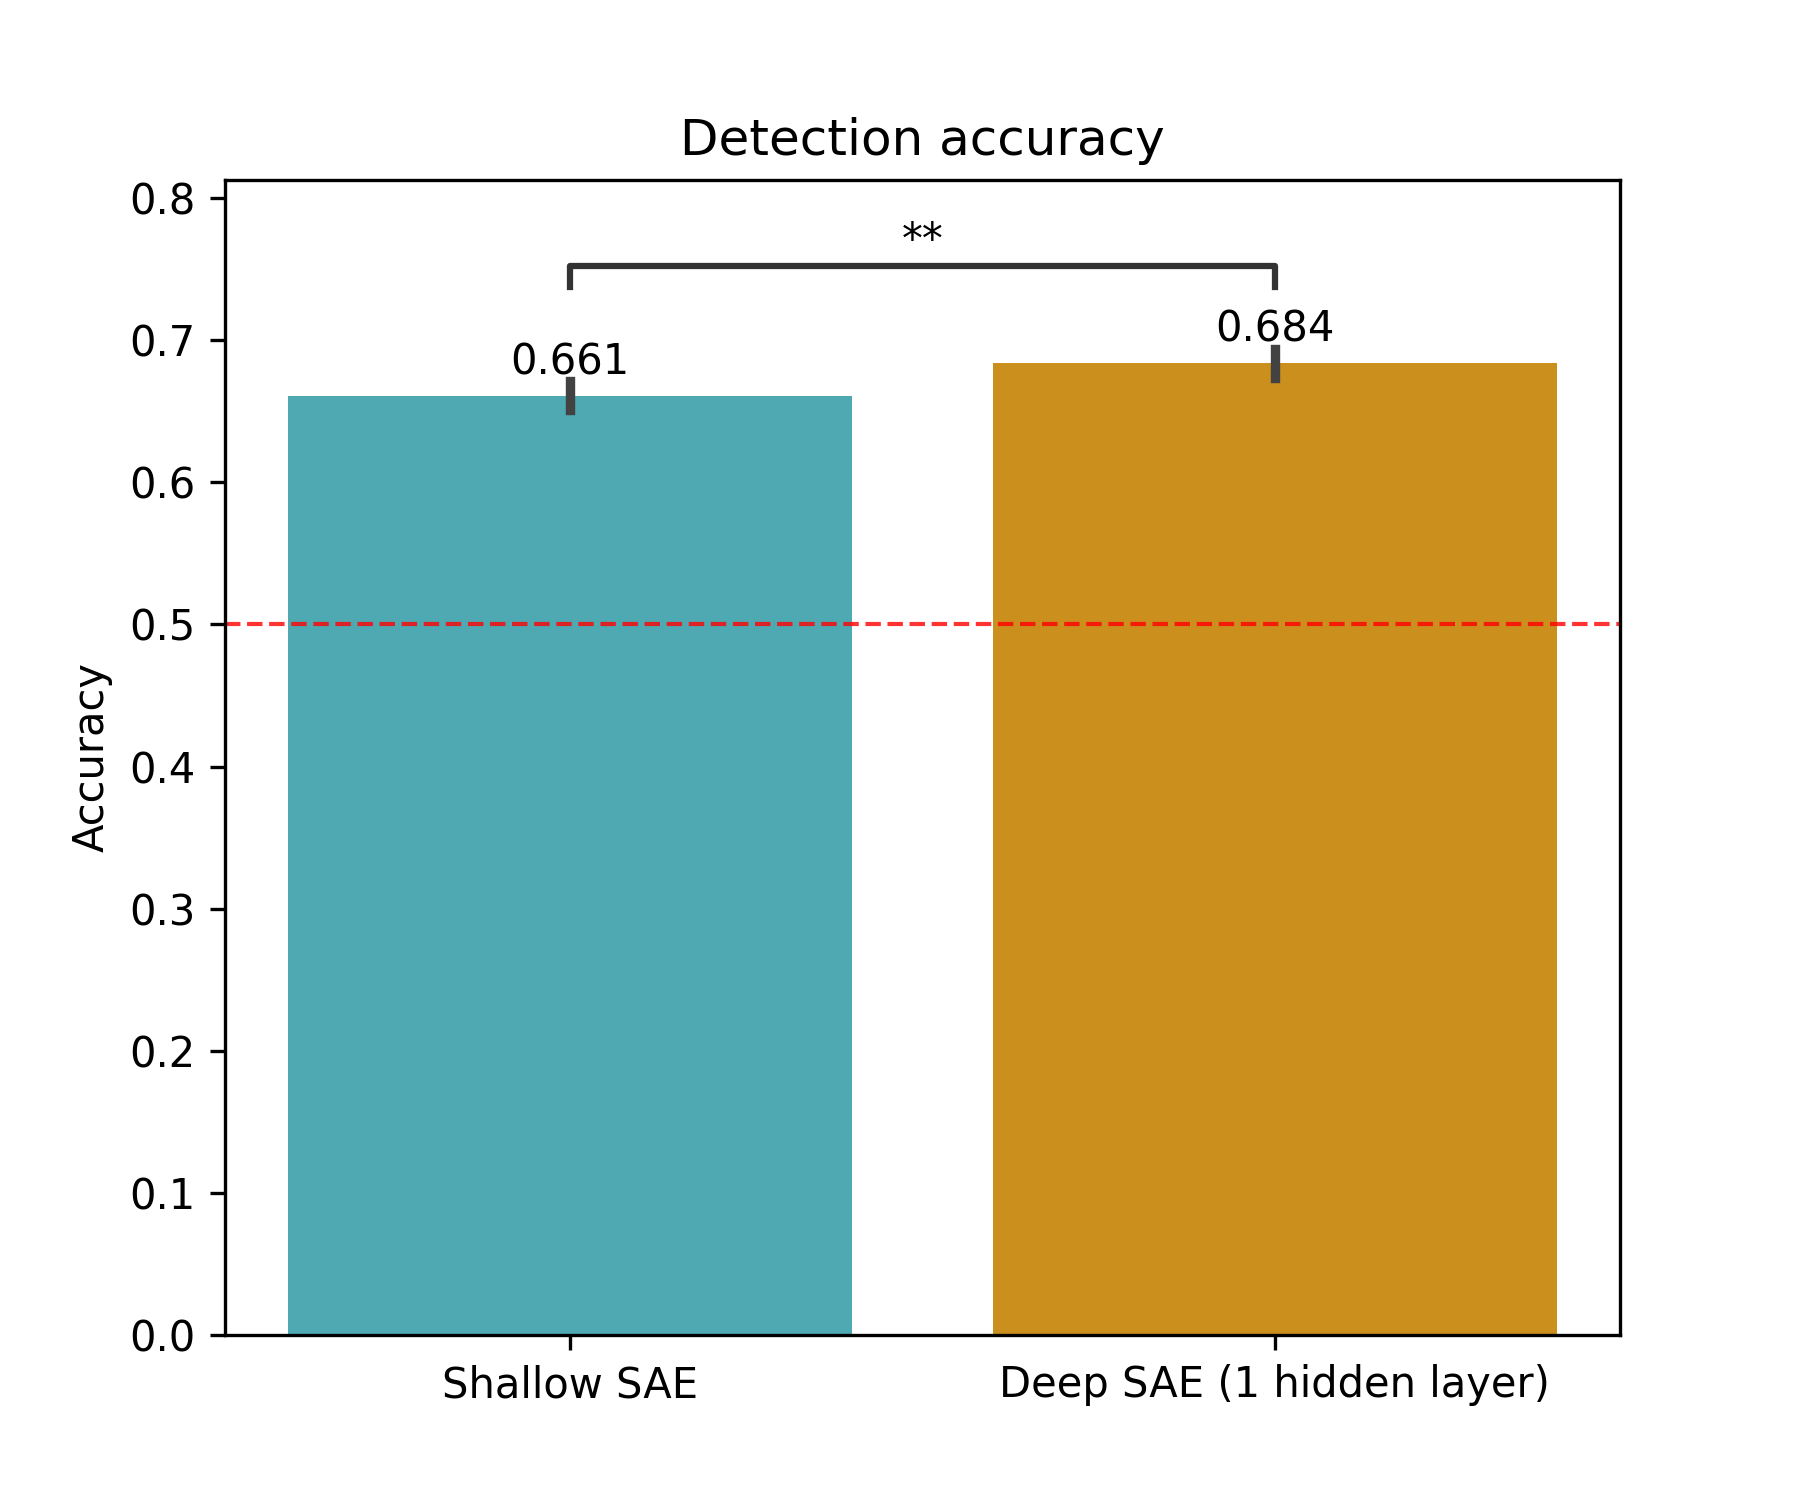
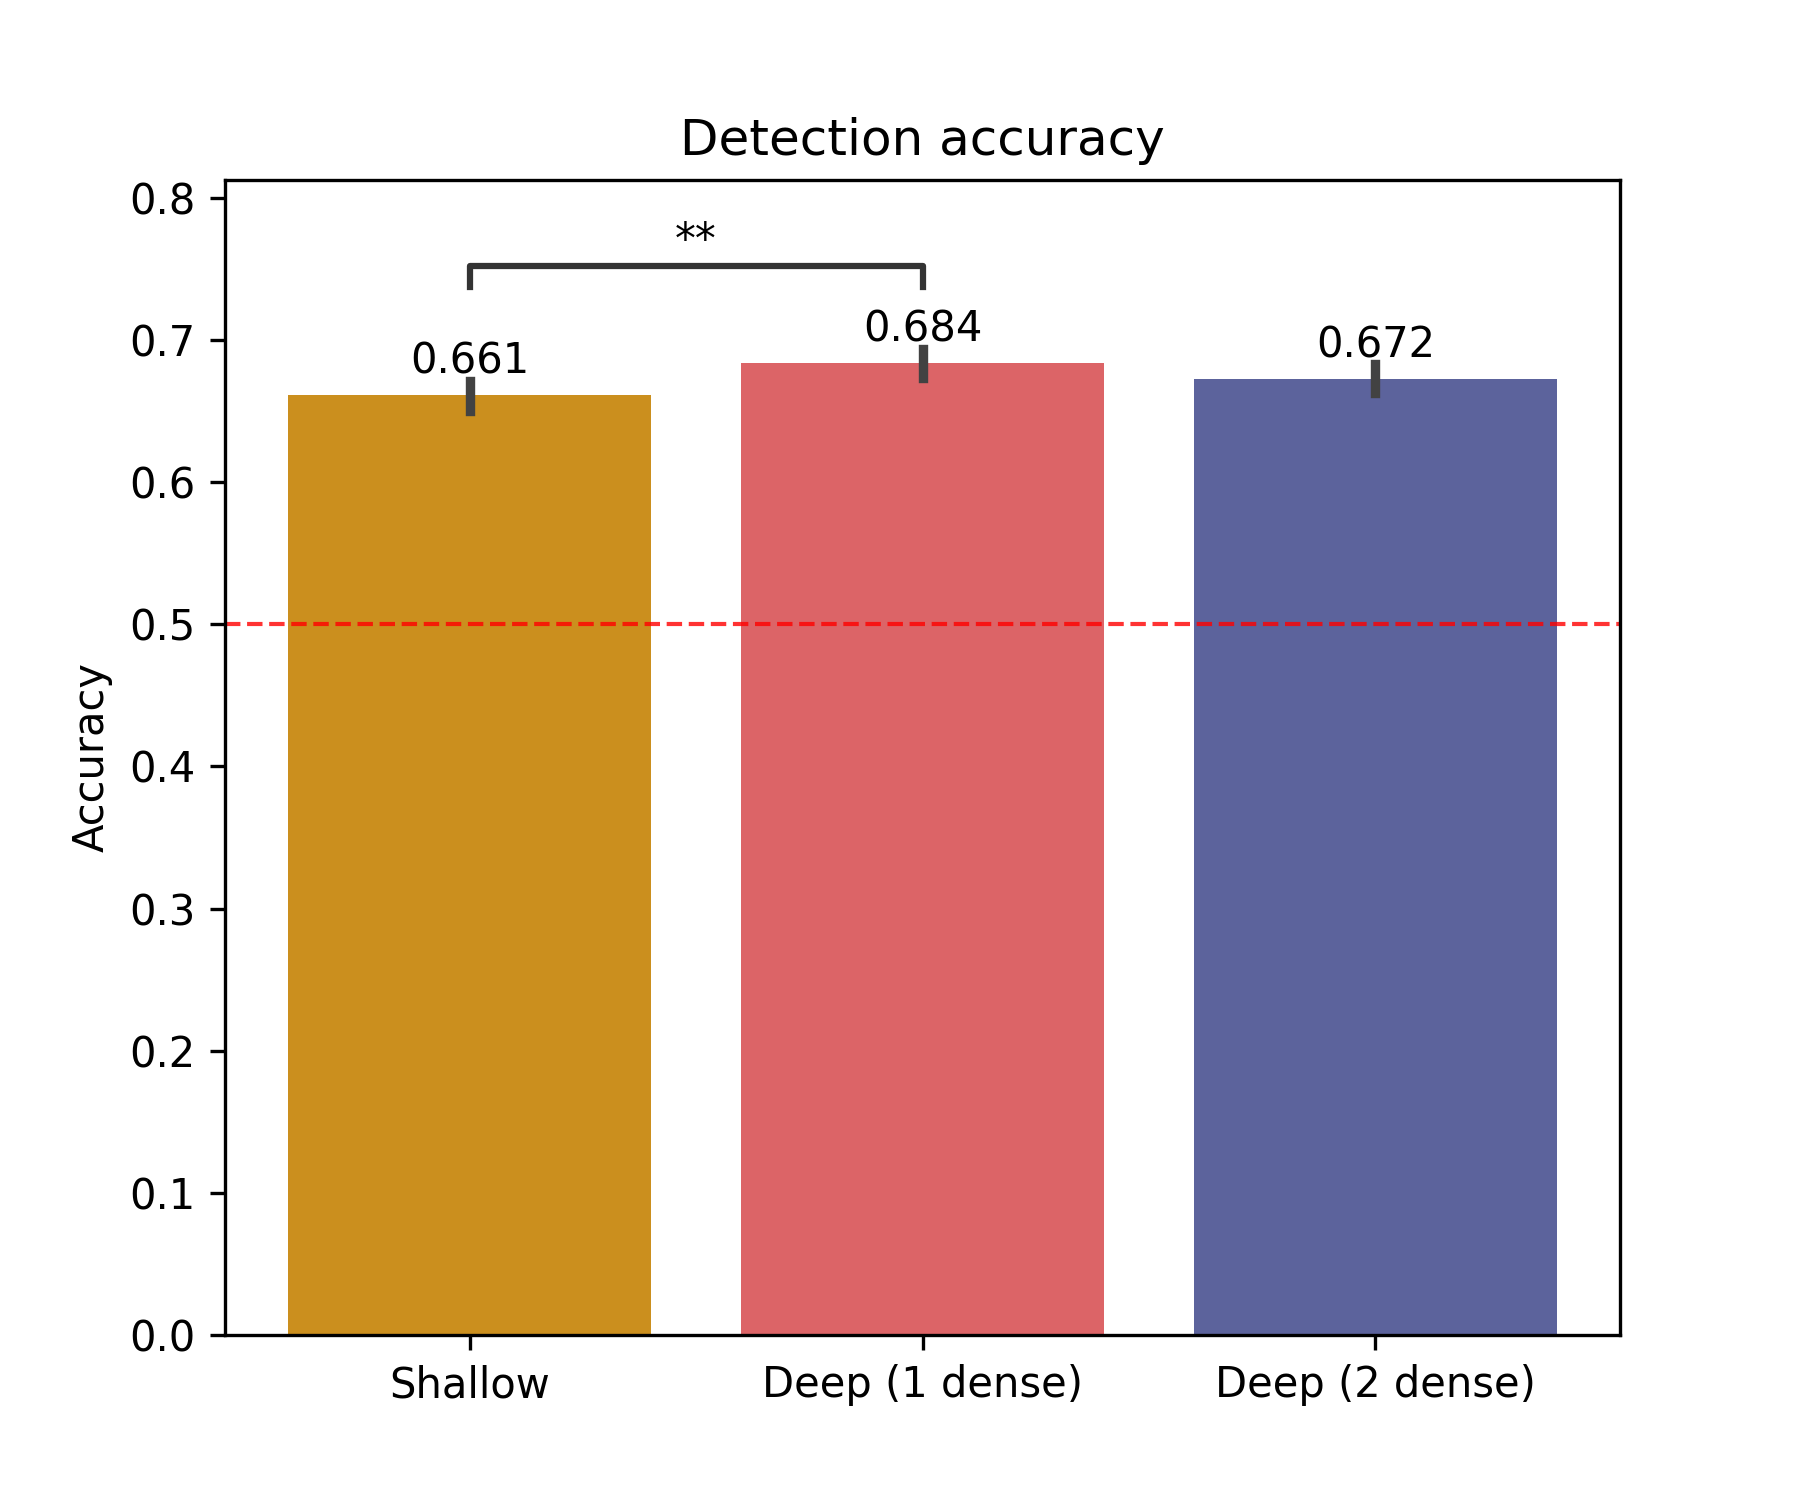
add 2-4-4-2 analysis

diff --git a/armaan/eval.py b/armaan/eval.py
@@ -8,7 +8,7 @@ import pandas as pd
 from generate_scores import score_dir
 from utils import results_dir
 
-scorer_name = "detection"
+scorer_name = "fuzz"
 
 
 def load_scores(arch_name):
@@ -29,7 +29,6 @@ def load_scores(arch_name):
 
         invalid = len([score for score in scores if score["prediction"] == -1])
         num_invalid += invalid
-        print(f"Number invalid: {invalid}")
         scores = [score for score in scores if score["prediction"] != -1]
         if not scores:
             continue
@@ -46,28 +45,34 @@ def load_scores(arch_name):
 
 # %%
 
-arch_names = ["2-2", "0-0"]
+arch_names = ["2-2", "0-0", "2-4-4-2"]
 all_correctness = [load_scores(arch_name) for arch_name in arch_names]
 df = pd.DataFrame(columns=["arch", "correctness"])
 for i, correctnesss in enumerate(all_correctness):
     for correctness in correctnesss:
         df.loc[len(df)] = [arch_names[i], correctness]
 
+
 # %%
 from armaan.palette import palette
 from matplotlib import pyplot as plt
 from statannotations.Annotator import Annotator
 
+for arch_name in arch_names:
+    acc = df[df["arch"] == arch_name]["correctness"].mean()
+    print(f"{arch_name}: {acc:.3f}")
+
 plt.figure(figsize=(6, 5))
+order = ["0-0", "2-2", "2-4-4-2"]
 ax = sns.barplot(
     data=df,
     x="arch",
     y="correctness",
-    palette=[palette[0], palette[3]],
-    order=["0-0", "2-2"],
+    palette=[palette[3], palette[4], palette[2]],
+    order=order,
 )
 ax.set_title(f"{scorer_name.capitalize()} accuracy")
-ax.set_xticklabels(["Shallow SAE", "Deep SAE (1 hidden layer)"])
+ax.set_xticklabels(["Shallow", "Deep (1 dense)", "Deep (2 dense)"])
 ax.set_ylabel("Accuracy")
 ax.set_xlabel(None)
 ax.axhline(y=0.5, color="red", linestyle="--", alpha=0.8, linewidth=1)
@@ -76,13 +81,14 @@ ax.axhline(y=0.5, color="red", linestyle="--", alpha=0.8, linewidth=1)
 for i in ax.containers:
     ax.bar_label(i, fmt="%.3f", padding=3)
 
-pairs = [("2-2", "0-0")]
+pairs = [("0-0", "2-2")]
 annotator = Annotator(
     ax,
     pairs,
     data=df,
     x="arch",
     y="correctness",
+    order=order,
 )
 
 annotator.configure(
@@ -94,3 +100,5 @@ annotator.apply_and_annotate()
 results_dir.mkdir(parents=True, exist_ok=True)
 plt.savefig(results_dir / f"{scorer_name}_accuracy.png", dpi=300)
 
+
+# %%

diff --git a/armaan/plot_mse.py b/armaan/plot_mse.py
@@ -1,0 +1,40 @@
+# %%
+import pandas as pd
+import numpy as np
+
+results_df = pd.DataFrame(columns=["k", "normalized_mse", "arch"])
+results_df.loc[0] = [64, 0.187, "0-0"]
+results_df.loc[1] = [128, 0.140, "0-0"]
+results_df.loc[2] = [256, 0.102, "0-0"]
+results_df.loc[3] = [64, 0.141, "2-2"]
+results_df.loc[4] = [128, 0.114, "2-2"]
+results_df.loc[5] = [256, 0.0873, "2-2"]
+
+results_df["log_k"] = np.log2(results_df["k"])
+
+results_df["arch"] = results_df["arch"].map({"0-0": "Shallow", "2-2": "Deep (1 dense)"})
+
+
+import seaborn as sns
+import matplotlib.pyplot as plt
+from armaan.palette import palette
+
+plt.figure(figsize=(5, 4))
+ax = sns.lineplot(
+    data=results_df,
+    x="log_k",
+    y="normalized_mse",
+    hue="arch",
+    marker="o",
+    palette=[palette[3], palette[4]],
+)
+ax.set_xticks([np.log2(64), np.log2(128), np.log2(256)])
+ax.set_xticklabels(["64", "128", "256"])
+ax.set_ylabel("Normalized MSE")
+ax.set_xlabel("k")
+ax.set_title("MSE sparsity frontier")
+ax.legend(title=None)
+
+plt.savefig(f"mse_sparsity_frontier.png", dpi=300)
+
+# %%

diff --git a/armaan/plot_dead.py b/armaan/plot_dead.py
@@ -1,0 +1,34 @@
+# %%
+import pandas as pd
+import numpy as np
+
+results_df = pd.DataFrame(columns=["dead", "arch"])
+results_df.loc[0] = [9, "0-0"]
+results_df.loc[1] = [2396, "2-2"]
+results_df.loc[2] = [18568, "2-4-4-2"]
+dim = 24576
+results_df["dead_ratio"] = results_df["dead"] / dim
+
+import seaborn as sns
+import matplotlib.pyplot as plt
+from armaan.palette import palette
+
+# 
+order = ["0-0", "2-2", "2-4-4-2"]
+palette=[palette[3], palette[4], palette[2]]
+plt.figure(figsize=(5, 4))
+ax = sns.barplot(
+    data=results_df,
+    x="arch",
+    y="dead_ratio", 
+    palette=palette,
+    order=order,
+)
+ax.set_yscale("log")
+ax.set_yticks([1e-3, 1e-2, 1e-1, 1])
+ax.set_yticklabels(["0.1%", "1%", "10%", "100%"])
+ax.set_ylabel("Percent dead neurons")
+ax.set_xticklabels(["Shallow", "Deep (1 dense)", "Deep (2 dense)"])
+ax.set_xlabel(None)
+
+# %%

diff --git a/armaan/main.py b/armaan/main.py
@@ -1,9 +1,11 @@
 from utils import arch_name_to_id
 from generate_explanations import generate_explanations
 from generate_scores import generate_scores
+from generate_tokens import generate_tokens
+from generate_acts import generate_acts
 
 if __name__ == "__main__":
-    for arch in arch_name_to_id.keys():
-        generate_explanations(arch)
-        generate_scores(arch)
+    generate_explanations("2-4-4-2")
+    generate_scores("2-4-4-2", "detection")
+    generate_scores("2-4-4-2", "fuzz")
 

diff --git a/armaan/save.py b/armaan/save.py
@@ -25,5 +25,11 @@ def download_data_dir(exp_name):
     s3_client.download_file(
         "deep-sae", f"auto-interp/{exp_name}.zip", f"{exp_name}.zip"
     )
+    print(f"Downloaded {exp_name}.zip")
     with zipfile.ZipFile(f"{exp_name}.zip", "r") as zip_ref:
         zip_ref.extractall(base_data_dir / exp_name)
+    print(f"Extracted {exp_name}.zip")
+
+
+if __name__ == "__main__":
+    download_data_dir("gpt2")

diff --git a/armaan/latent_contexts.py b/armaan/latent_contexts.py
@@ -19,7 +19,7 @@ from transformers import AutoTokenizer
 from utils import load_sae_config, cfg, data_dir, latents_dir, alive_features_dir, load_feature_config
 
 module_name = cfg.submodule_path
-arch_name = "2-2"
+arch_name = "2-4-4-2"
 width = load_sae_config(arch_name)["width"]
 tokens_path = data_dir / "tokens.pt"
 this_latents_dir = latents_dir / arch_name

diff --git a/armaan/generate_scores.py b/armaan/generate_scores.py
@@ -84,6 +84,5 @@ def generate_scores(arch_name, scorer_name):
     asyncio.run(pipeline.run(number_of_parallel_latents))
 
 if __name__ == "__main__":
-    for arch in arch_name_to_id.keys():
-        generate_scores(arch, "detection")
-        generate_scores(arch, "fuzz")
+    # generate_scores("2-4-4-2", "detection")
+    generate_scores("2-4-4-2", "fuzz")

diff --git a/armaan/utils.py b/armaan/utils.py
@@ -32,6 +32,7 @@ results_dir = Path(__file__).parent.parent / "results" / cfg.experiment_name
 arch_name_to_id = {
     "0-0": "mildly-good-bear",
     "2-2": "only-suited-cat",
+    "2-4-4-2": "merely-finer-feline",
 }
 
 def load_sae(arch_name):
